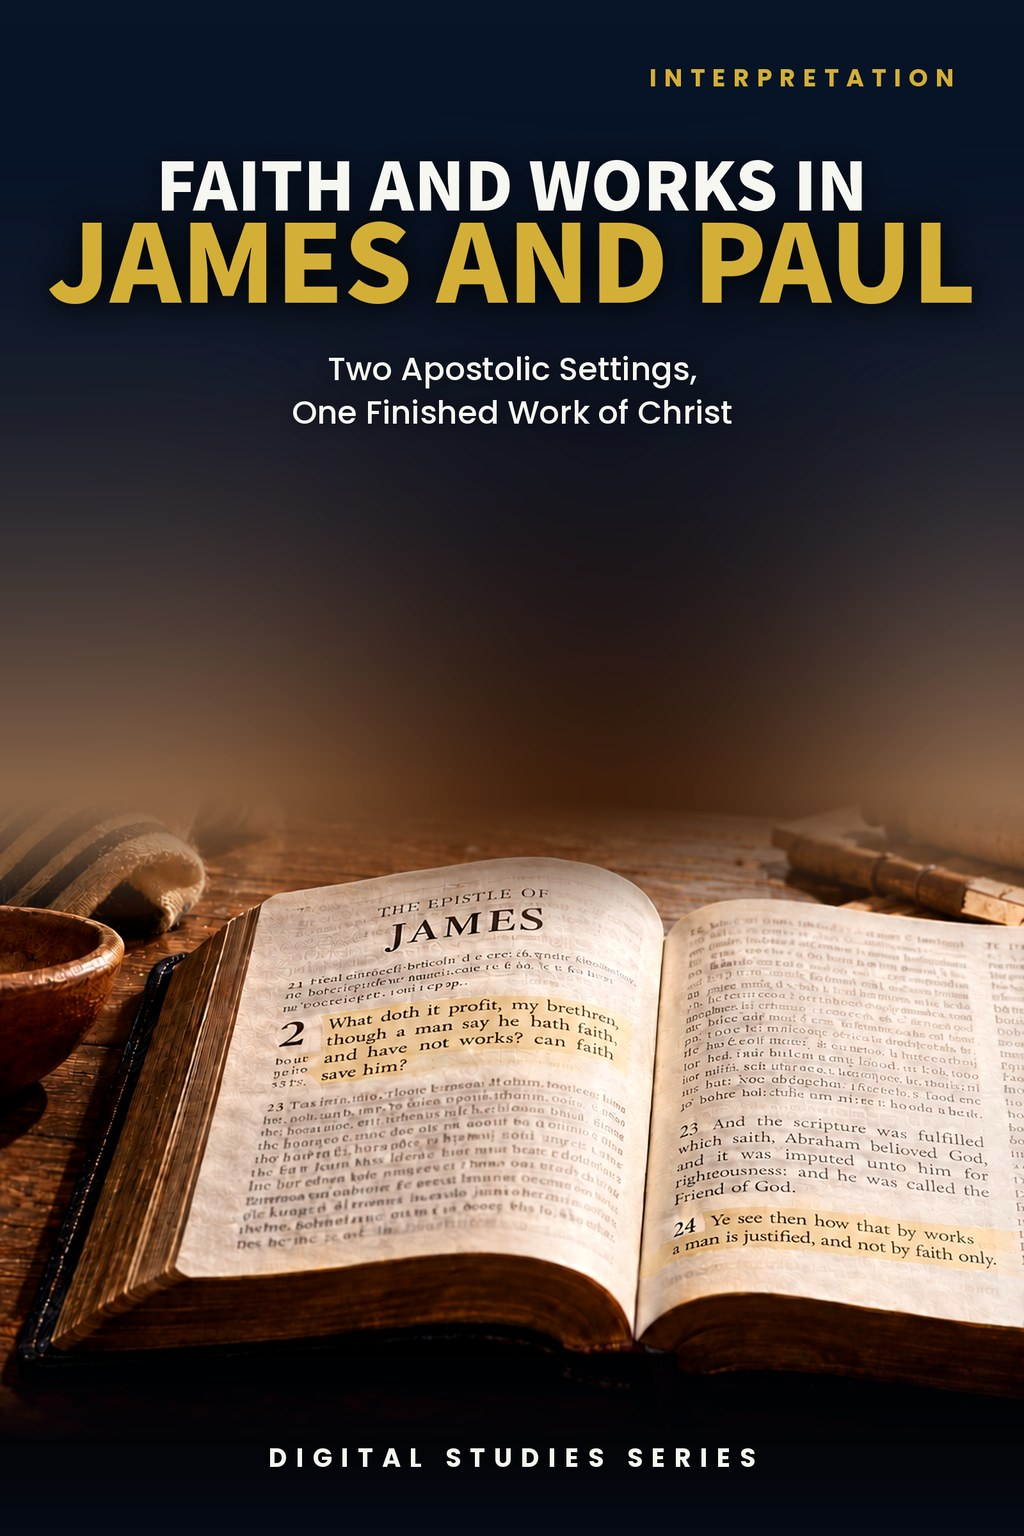
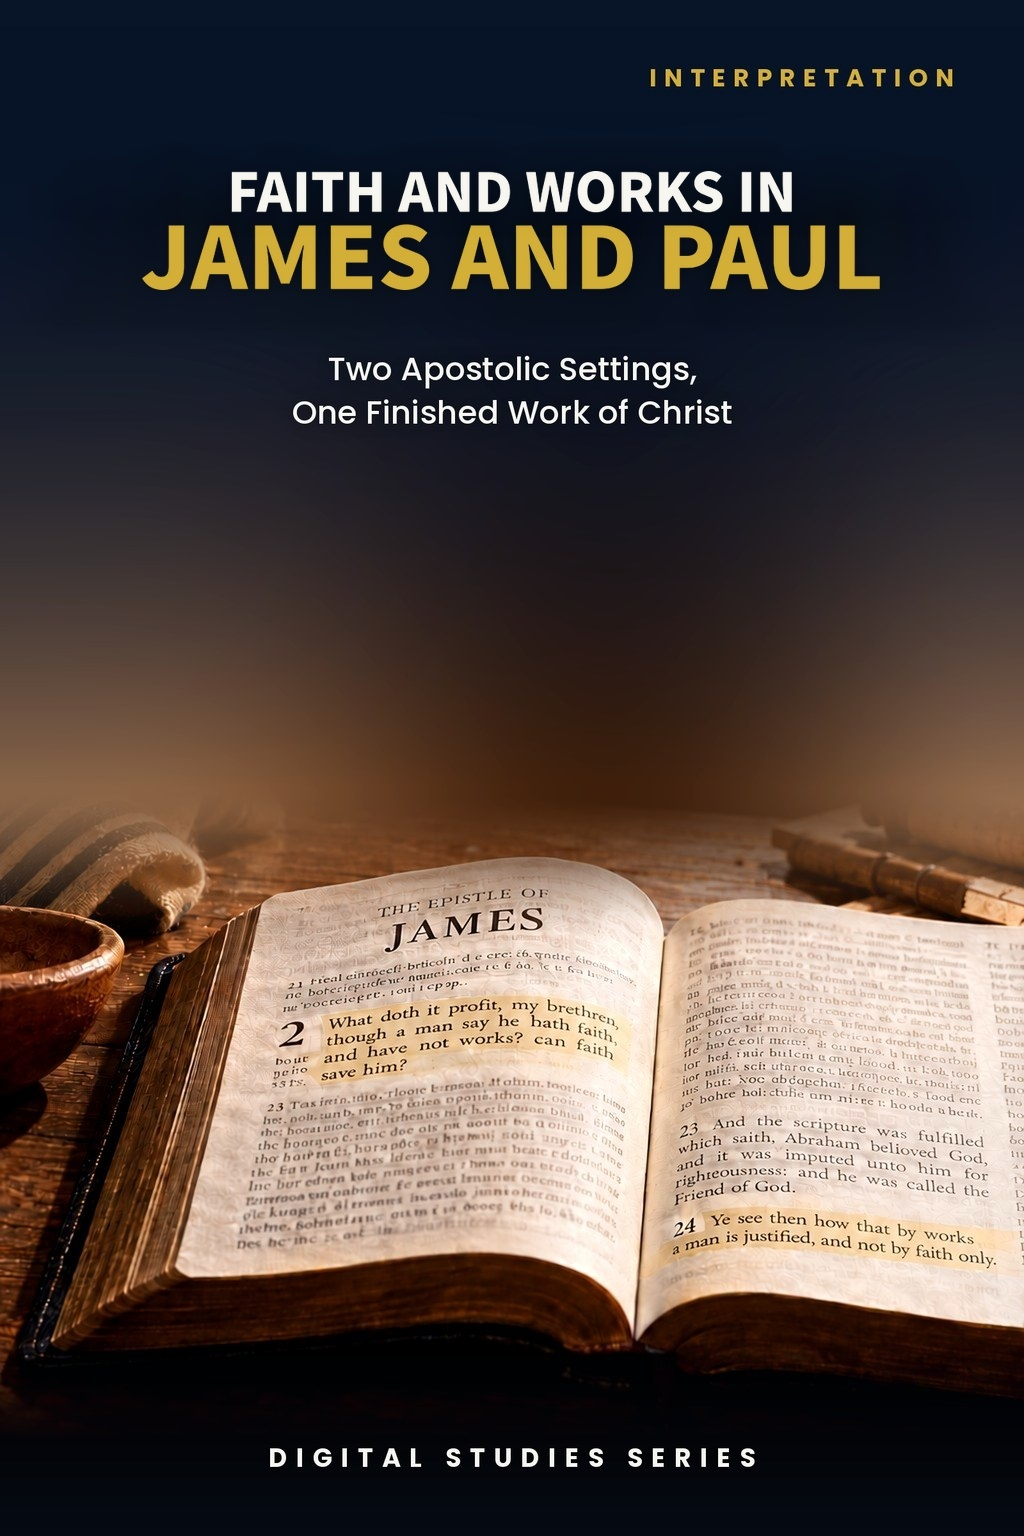
Study 15: rebuild from PDF to Master Standard v1.30 (Roboto, 16 pages); cover title lines reduced to 80%; preview strip re-cut to three cards; site.js page count 16; tracker v1.38
Claude-Session: https://claude.ai/code/session_01TLNFW47XCW6YAMUxScR3v4

Changed region(s): [[0.0312, 0.0938, 0.9688, 0.2188]]

diff --git a/study-15-faith-and-works-in-james-and-paul.html b/study-15-faith-and-works-in-james-and-paul.html
@@ -14,7 +14,7 @@
 <section class="detail-section soft"><div class="wrap"><div class="eyebrow">WHAT YOU’LL STUDY</div><h2>Let Each Passage Speak in Its Own Setting</h2><div class="study-points"><div class="study-point"><h3>James’s Stated Audience</h3><p>Begin with the twelve tribes and the letter’s Israel-oriented covenantal setting.</p></div><div class="study-point"><h3>Dead Faith</h3><p>Examine James’s concern with a profession that remains barren and unexpressed.</p></div><div class="study-point"><h3>Abraham and Rahab</h3><p>Follow the examples James uses to describe living faith acting in response to God’s word.</p></div><div class="study-point"><h3>Paul’s Justification Teaching</h3><p>Read Romans, Galatians, and Ephesians on justification apart from works.</p></div><div class="study-point"><h3>Different Revelatory Settings</h3><p>Compare audience, authority, covenant setting, and the role of works without flattening either writer.</p></div><div class="study-point"><h3>One Finished Work of Christ</h3><p>Preserve distinct administrative expressions without creating independent redemptive accomplishments.</p></div></div></div></section>
 <section class="detail-section cream"><div class="wrap"><div class="eyebrow">KEY SCRIPTURES</div><h2>Examine the Passages for Yourself</h2><div class="scripture-grid"><div class="scripture-card"><h3>James 1:1</h3><p>Names the twelve tribes scattered abroad as the letter’s audience.</p></div><div class="scripture-card"><h3>James 2:14-20</h3><p>Defines the problem of a professed faith that remains barren.</p></div><div class="scripture-card"><h3>Genesis 15:1-6</h3><p>Records Abraham’s belief and righteousness reckoned to faith.</p></div><div class="scripture-card"><h3>Genesis 22:1-18</h3><p>Supplies Abraham’s later obedient action in James’s argument.</p></div><div class="scripture-card"><h3>James 2:21-25</h3><p>Shows how James uses Abraham and Rahab.</p></div><div class="scripture-card"><h3>Romans 3:21-28</h3><p>States Paul’s exclusion of works from justification.</p></div><div class="scripture-card"><h3>Romans 4:1-8; Galatians 2:16</h3><p>Develops righteousness reckoned apart from works.</p></div><div class="scripture-card"><h3>Ephesians 2:8-10</h3><p>Distinguishes salvation apart from works from the good works that follow.</p></div></div></div></section>
 <section class="detail-section"><div class="wrap"><div class="eyebrow">FROM THE STUDY</div><h2>Do Not Flatten the Passages into One Formula</h2><div class="excerpt"><blockquote>“Let James speak to his stated audience. Let Paul speak under the Mystery revealed through him.”</blockquote><p>James’s covenantal setting and Paul’s Mystery stewardship explain why their statements must first be heard within their own audiences and administrative requirements, while both rest ultimately upon Christ’s finished work.</p></div></div></section>
-<section class="detail-section soft"><div class="wrap"><div class="eyebrow">A LOOK INSIDE</div><h2>Preview the Study Before You Purchase</h2><p class="preview-instruction">Click any page to enlarge it for reading.</p><div class="preview-grid"><div class="preview-card"><a class="preview-image-link" data-preview-lightbox href="assets/study-15-page-2.jpg"><img src="assets/study-15-page-2.jpg" alt="Study 15 interior preview — page 2, what you will learn"/></a><div class="page-no">Page 2</div><h3>What You Will Learn</h3><p>See the study’s central question and its governing distinctions.</p></div><div class="preview-card"><a class="preview-image-link" data-preview-lightbox href="assets/study-15-page-6.jpg"><img src="assets/study-15-page-6.jpg" alt="Study 15 interior preview — page 6, Paul and justification"/></a><div class="page-no">Page 6</div><h3>Paul: Justification Apart From Works</h3><p>Compare Paul’s doctrine with James without weakening either passage.</p></div><div class="preview-card"><a class="preview-image-link" data-preview-lightbox href="assets/study-15-page-9.jpg"><img src="assets/study-15-page-9.jpg" alt="Study 15 interior preview — page 9, worked diagnostic"/></a><div class="page-no">Page 9</div><h3>Worked Diagnostic</h3><p>See how audience, setting, and the role of works clarify the apparent conflict.</p></div><div class="preview-card"><a class="preview-image-link" data-preview-lightbox href="assets/study-15-page-11.jpg"><img src="assets/study-15-page-11.jpg" alt="Study 15 interior preview — page 11, summary and Scripture tracing"/></a><div class="page-no">Page 11</div><h3>Summary and Scripture Tracing</h3><p>Test the study’s distinctions directly from the passages.</p></div></div></div></section>
+<section class="detail-section soft"><div class="wrap"><div class="eyebrow">A LOOK INSIDE</div><h2>Preview the Study Before You Purchase</h2><p class="preview-instruction">Click any page to enlarge it for reading.</p><div class="preview-grid"><div class="preview-card"><a class="preview-image-link" data-preview-lightbox href="assets/study-15-page-2.jpg"><img src="assets/study-15-page-2.jpg" alt="Study 15 interior preview — page 2, table of contents"/></a><div class="page-no">Page 2</div><h3>Table of Contents</h3><p>See the full structure of the study, from the introduction through the final synthesis.</p></div><div class="preview-card"><a class="preview-image-link" data-preview-lightbox href="assets/study-15-page-3.jpg"><img src="assets/study-15-page-3.jpg" alt="Study 15 interior preview — page 3, what you will learn"/></a><div class="page-no">Page 3</div><h3>What You Will Learn</h3><p>See the skills and interpretive disciplines you will practice, plus the study goal and outline.</p></div><div class="preview-card"><a class="preview-image-link" data-preview-lightbox href="assets/study-15-page-5.jpg"><img src="assets/study-15-page-5.jpg" alt="Study 15 interior preview — page 5, the problem in James 2"/></a><div class="page-no">Page 5</div><h3>The Problem in James 2</h3><p>Follow James’s opening scene and his argument about faith that remains barren, working directly from the text.</p></div></div></div></section>
 <section class="detail-section"><div class="wrap"><div class="eyebrow">WHAT’S INCLUDED</div><h2>A Focused Study Built for<br/>Understanding and Teaching</h2><div class="includes-grid"><div class="include-item"><h3>13-Page In-Depth Biblical Study</h3><p>A careful reading of James 2 and Paul’s justification teaching.</p></div><div class="include-item"><h3>Ten Core Teaching Sections</h3><p>Move from James’s audience through Paul’s doctrine and the Acts Overlap.</p></div><div class="include-item"><h3>James 2 Study</h3><p>Trace dead faith, Abraham, Rahab, and James’s governing conclusion.</p></div><div class="include-item"><h3>Pauline Justification Study</h3><p>Examine Romans, Galatians, and Ephesians on faith apart from works.</p></div><div class="include-item"><h3>James and Paul Comparison</h3><p>Compare their settings, audiences, and the role works are assigned.</p></div><div class="include-item"><h3>Worked Diagnostic</h3><p>Use a repeatable sequence for difficult passages.</p></div><div class="include-item"><h3>Teaching Outline</h3><p>A ready framework for presenting the distinction with care.</p></div><div class="include-item"><h3>Guided Study and Synthesis</h3><p>Trace the passages directly while preserving Christ’s finished work.</p></div></div></div></section>
 <section class="detail-section cream"><div class="wrap"><div class="final-buy"><div><div class="eyebrow">STUDY 15 · DIGITAL STUDY</div><h2>Faith and Works in James and Paul</h2><p>13-page digital PDF · For personal use</p></div><div class="final-offer"><div class="detail-price">$5.99</div><span class="detail-button pending">Get the Study</span></div></div><a class="back-link" href="digital-studies.html">← Back to All Digital Studies</a></div></section><section class="study-method-course-bridge"><div class="wrap"><div class="study-method-course-panel"><div><div class="eyebrow">BUILD THE INTERPRETIVE METHOD</div><h2>Want More Than a Focused Study?</h2><p>Digital Studies examine particular biblical subjects and difficult passages. The 40-lesson Biblical Hermeneutics course teaches a complete, repeatable method for establishing meaning in context, determining proper assignment, and making responsible application.</p></div><a class="btn btn-primary" href="biblical-hermeneutics-course.html">BIBLICAL HERMENEUTICS COURSE</a></div></div></section></main>
 <div class="preview-lightbox" id="preview-lightbox" role="dialog" aria-modal="true" aria-label="Enlarged study page preview"><button class="preview-lightbox-close" type="button" aria-label="Close enlarged preview">×</button><img src="" alt=""/><div class="preview-lightbox-hint">Scroll to read the full page · Press Esc or click outside the page to close</div></div>

diff --git a/site.js b/site.js
@@ -62,7 +62,7 @@ const resourceModal=document.querySelector('#resource-modal'), resourceModalTitl
 if(resourceModal&&resourceModalTriggers.length){const closeResourceModal=()=>{resourceModal.hidden=true;document.body.classList.remove('resource-modal-open');lastResourceTrigger?.focus();};resourceModalTriggers.forEach(trigger=>trigger.addEventListener('click',()=>{lastResourceTrigger=trigger;if(resourceModalTitle)resourceModalTitle.textContent=trigger.dataset.title||'Resource';if(resourceModalDescription)resourceModalDescription.textContent=trigger.dataset.description||'';if(resourceModalLink){resourceModalLink.href=trigger.dataset.href||'#';resourceModalLink.textContent=trigger.dataset.linkText||'OPEN RESOURCE';}resourceModal.hidden=false;document.body.classList.add('resource-modal-open');resourceModalClose?.focus();}));resourceModalClose?.addEventListener('click',closeResourceModal);resourceModal.addEventListener('click',e=>{if(e.target===resourceModal)closeResourceModal();});document.addEventListener('keydown',e=>{if(e.key==='Escape'&&!resourceModal.hidden)closeResourceModal();});}
 
 /* Display the verified final-PDF page count at the primary purchase decision point. */
-const digitalStudyPageCounts={1:14,2:14,3:18,4:18,5:16,6:16,7:16,8:16,9:16,10:23,11:15,12:14,13:18,14:15,15:13,16:14,17:14,18:13,19:13,20:13,21:14,22:15,23:15,24:13,25:13,26:17,27:15,28:14,29:13,30:17,31:17,32:14,33:15,34:16,35:15,36:15,37:15,38:16,39:16,40:15,41:15,42:15,43:17,44:15,45:15,46:15,47:16,48:15,49:14,50:14,51:15,52:15,53:15,54:15,55:16,56:16,61:16,62:16,63:16,64:16,65:16,66:16,67:16,68:16,69:16,70:16,71:16};
+const digitalStudyPageCounts={1:14,2:14,3:18,4:18,5:16,6:16,7:16,8:16,9:16,10:23,11:15,12:14,13:18,14:15,15:16,16:14,17:14,18:13,19:13,20:13,21:14,22:15,23:15,24:13,25:13,26:17,27:15,28:14,29:13,30:17,31:17,32:14,33:15,34:16,35:15,36:15,37:15,38:16,39:16,40:15,41:15,42:15,43:17,44:15,45:15,46:15,47:16,48:15,49:14,50:14,51:15,52:15,53:15,54:15,55:16,56:16,61:16,62:16,63:16,64:16,65:16,66:16,67:16,68:16,69:16,70:16,71:16};
 const digitalStudyMatch=window.location.pathname.match(/\/study-(\d+)-/i);
 const digitalStudyFormat=document.querySelector('.detail-hero .detail-format');
 if(digitalStudyMatch&&digitalStudyFormat){const studyNumber=Number(digitalStudyMatch[1]),pageCount=digitalStudyPageCounts[studyNumber];if(pageCount)digitalStudyFormat.textContent=`Digital PDF · ${pageCount} Pages`;}

diff --git a/controlling-documents/Digital_Studies_PAM_Audit_v1.38.md b/controlling-documents/Digital_Studies_PAM_Audit_v1.38.md
@@ -64,6 +64,7 @@ Priority list (publisher's list):
 | 12 The New Covenant | Fixed (publisher approved) | New covenant parties Israel and Judah; Luke 22:20; Section 4 on 2 Cor 3:6 | Body benefits from Christ's work without being the covenant party. |
 | 13 The Olive Tree and the Body of Christ | Fixed (publisher approved) | Romans 11:25 ruling; Remnant | Romans 11 placed inside the Overlap. |
 | 14 Acts 9 and the Beginning of Mystery | Clear (rebuilt, publisher approved) | Acts 1–8; Acts 9–28; Acts 10–11 ruling; Acts 15 ruling | Acts 10–12 presented as Peter's continuing ministry. PDF: confirm Acts 10–11 stays a Prophecy Program event. |
+| 15 Faith and Works in James and Paul | Clear (rebuilt, publisher approved) | James 1:1 audience; Romans 3–4 not assigned (Framework silent); Acts 15 pointer only | James kept in the Prophecy setting; Paul's justification stated for the Body; one finished work of Christ preserved. |
 | 18 Peter and Paul: Distinct Apostolic Commissions | Clear | Acts 9–28 Overlap; Acts 15; Galatians 2:7 | |
 | 19 The Jerusalem Council | Clear (PDF) | Acts 15 ruling (Overlap, not one program); Acts 10–11 ruling | PDF read: Acts 15 = recognition without absorption inside the Overlap; Acts 10 not assigned to the Body. |
 | 20 Understanding Acts 2:38 | Clear | Acts 2 details (Kingdom entry; Joel 2; not Spirit baptism into the Body) | |
@@ -264,3 +265,4 @@ Study 15 PDF not yet supplied. Typography: none of Studies 2, 3, 6, 8 is in EB G
 - v1.35 (2026-09-30): Study 12 (The New Covenant) read in full against the PAM and Framework from the publisher's PDF (v21, 13 pages; no DOCX): clear except one framing point. Section 9.1 spoke of Paul's "ministry concerning the New Covenant during the Acts period"; per the Section 4 ruling on 2 Cor 3:6 (the new covenant stays with Israel/Judah; Paul's ministry stays with the Mystery) it now reads: "Paul's ministry in 2 Corinthians 3:6 belongs to the Mystery administration committed to him; it does not make the Body a covenant party. The New Covenant itself stays with Israel and Judah. His ability to speak of that covenant in his ministry does not require that his Mystery audience become Israel or Judah." (publisher approved the wording). Approved by the publisher ("i approve") at 14 pages and pushed. Rebuilt from the PDF in Roboto to Master Standard v1.30: five boxed callouts kept (Study Goal, Interpretive Control, Covenant Identity, Acts Overlap Clarification, Doctrinal Principle; Restoration Control and Redemptive Basis became run-in paragraphs), Study Outline drafted from the Teaching Outline, covenant-promises diagram and both tables kept, imprint standard text (personal-use wording dropped); 14 pages (cover plus 13 interior; source text is about 3,900 words). Website: preview strip re-cut to TOC (p2), What You Will Learn (p3), p5; old extra preview images removed; site.js page count 13 to 14.
 - v1.36 (2026-09-30): Study 13 (The Olive Tree and the Body of Christ) read in full against the PAM and Framework from the publisher's PDF (v11, 15 pages; no DOCX): clear except one point. The "Fullness of the Gentiles" paragraph (Rom 11:25) had said not to equate the expression with the Body's completion "without further textual argument"; per the PAM (Rom 11:25 = Prophecy Program, Israel's future restoration, not Body fullness) and the Section 4 ruling it now reads: "Romans 11:25 associates the limit of Israel's partial blindness with 'the fulness of the Gentiles.' This is Prophecy Program content concerning Israel's future restoration, stated during the Mystery administration. It is not the fullness of the Body of Christ, and it should not be equated with every other Pauline reference involving Gentile fullness." (publisher approved the wording; the next paragraph is unchanged). The source PDF, and the live purchasable PDF, had flattened headings and stray footer lines inside the text; the structure was rebuilt from the Table of Contents and run-in headings (25 subheadings restored). Rebuilt in Roboto to Master Standard v1.30: five boxed callouts (Study Goal, Interpretive Control, Grafting Control, Mystery Control, Acts Overlap Control; the other eight source controls/principles became run-in paragraphs), Study Outline drafted, standard imprint; 18 pages (cover plus 17 interior; publisher accepted 18). Cover: the website cover, with six blurred patches in the artwork retouched. Website: preview strip re-cut to TOC (p2), What You Will Learn (p3), p5; old extra preview images removed; cover image replaced with the retouched one; site.js page count 15 to 18. Approved by the publisher ("i approve") and pushed.
 - v1.37 (2026-10-01): Study 14 (Why Acts 9 Matters) read in full against the PAM and Framework from the publisher's PDF (v4, 13 pages; no DOCX): clear, no wording changes (Acts 10–12/Cornelius kept as Peter's continuing Prophecy ministry inside the Overlap; Acts 15 treated as interaction between distinct ministries, not one program; Romans 11, Galatians and Ephesians appear only as further-study pointers). Rebuilt to Master Standard v1.30 in Roboto: 15 pages (cover plus 14 interior), five boxed callouts (Apostolic Control became a run-in body paragraph), drafted process-only Study Outline, Teaching Outline renumbered as bullets, both tables restyled. Cover: the website cover with the dark shading behind the subtitle lifted and the subtitle lettering evened to white; publisher approved. Preview strip re-cut to three cards (TOC p2, What You Will Learn p3, section 2 page p5; old p7 table preview removed); site.js page count 13 to 15. Publisher approved ("i approve") and pushed.
+- v1.38 (2026-10-01): Study 15 (Faith and Works in James and Paul) read in full against the PAM and Framework from the publisher's PDF (v6, 13 pages; no DOCX): clear, no wording changes (James 1:1 "twelve tribes" used as the audience marker and James kept in the Prophecy setting; the Framework does not mention James; Romans 3–4, Galatians 2:16 and Ephesians 2:8–10 are not assigned in the PAM and the study makes no Body-identity or covenant claim from them; Acts 15 appears only as a pointer, consistent with the Overlap ruling; no two-saviors or two-crosses claim). Rebuilt to Master Standard v1.30 in Roboto: 16 pages (cover plus 15 interior), five boxed callouts (Audience Control became a run-in body paragraph), drafted process-only Study Outline, Teaching Outline as bullets, review questions renumbered 1–17 (the source restarted at 1 after question 12), duplicated trace-table header removed, tables restyled. Cover: the website cover with both title lines ("FAITH AND WORKS IN" and "JAMES AND PAUL") reduced to 80%, placed at 75% size on the PDF page; publisher approved. Preview strip re-cut to three cards (TOC p2, What You Will Learn p3, p5); old p6, p9, p11 previews removed; site.js page count 13 to 16. Publisher approved ("approve") and pushed.
